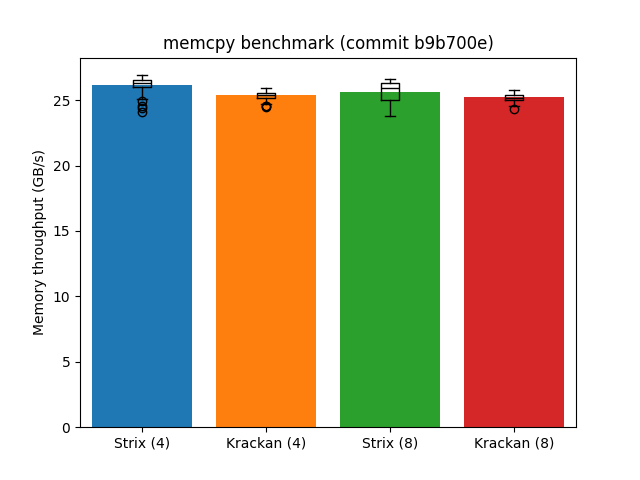
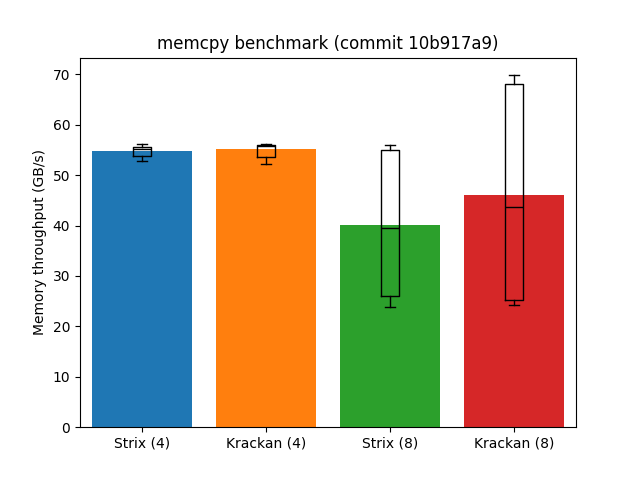
update readme and evaluation

diff --git a/bench0/eval.py b/bench0/eval.py
@@ -52,7 +52,7 @@ for x, bar in zip(xs, bars):
 ax.set_xticks(xs)
 ax.set_xticklabels([bar["label"] for bar in bars])
 ax.set_ylabel("Memory throughput (GB/s)")
-ax.set_title("memcpy benchmark (commit b9b700e)")
+ax.set_title("memcpy benchmark (commit 10b917a9)")
 
 plt.savefig("eval_memcpy.png")
 

diff --git a/bench0/readme.md b/bench0/readme.md
@@ -14,10 +14,10 @@ for i in $(seq 100); do ./memcpy.exe -x build/final.xclbin -i build/insts.bin -k
 
 Results:
 ```
-Strix (4): 26.16 GB/s
-Krackan (4): 25.36 GB/s
-Strix (8): 25.65 GB/s
-Krackan (8): 25.21 GB/s
+Strix (4): 54.84 GB/s
+Krackan (4): 55.13 GB/s
+Strix (8): 40.09 GB/s
+Krackan (8): 46.15 GB/s
 ```
 
 ![](eval_memcpy.png)
